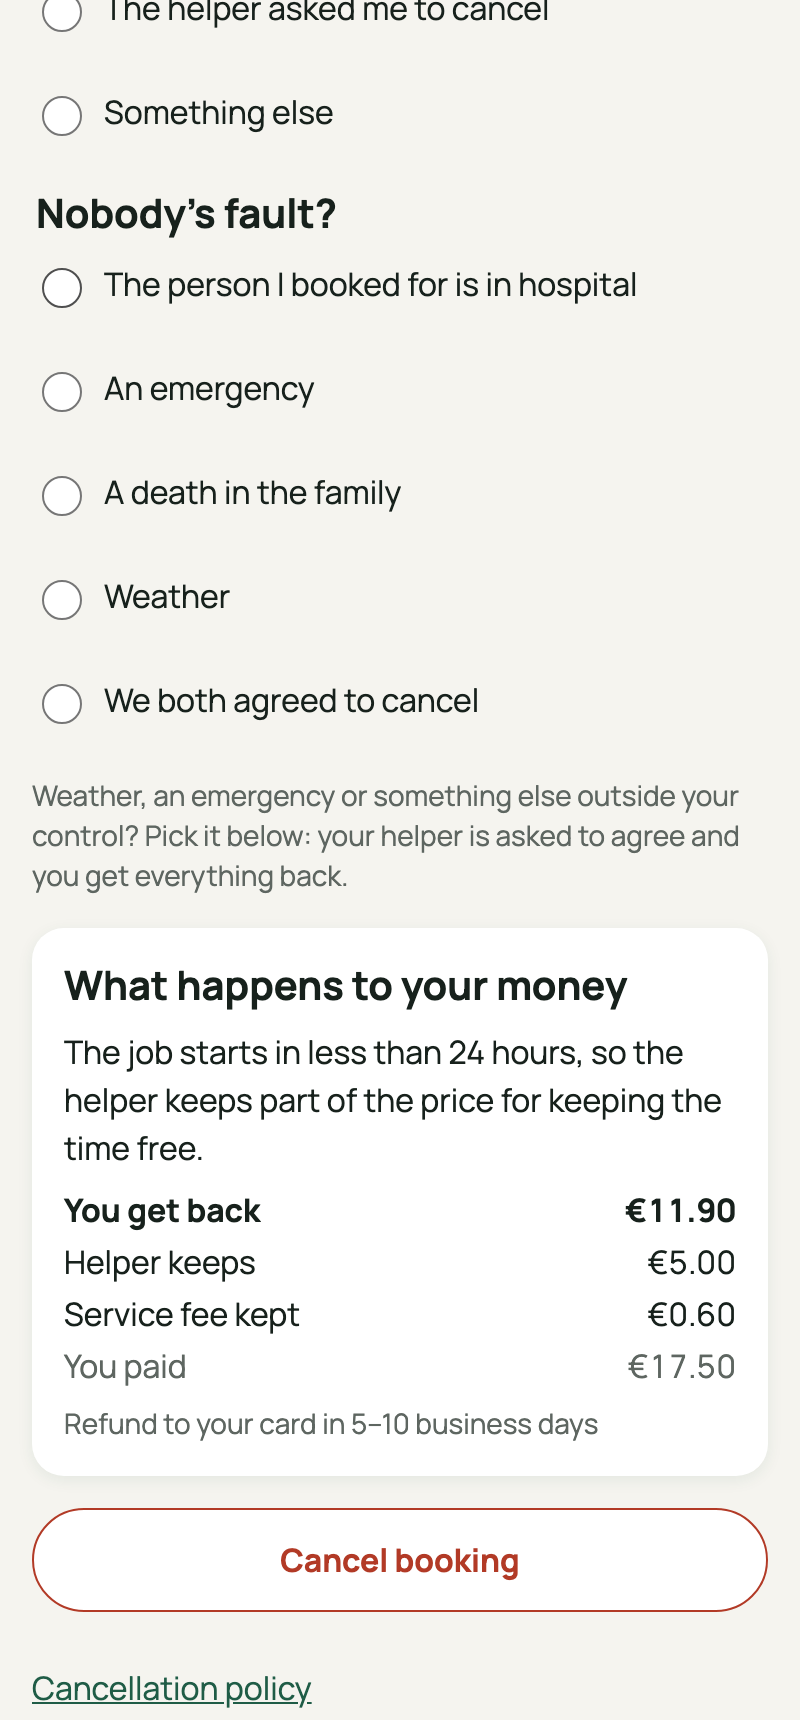
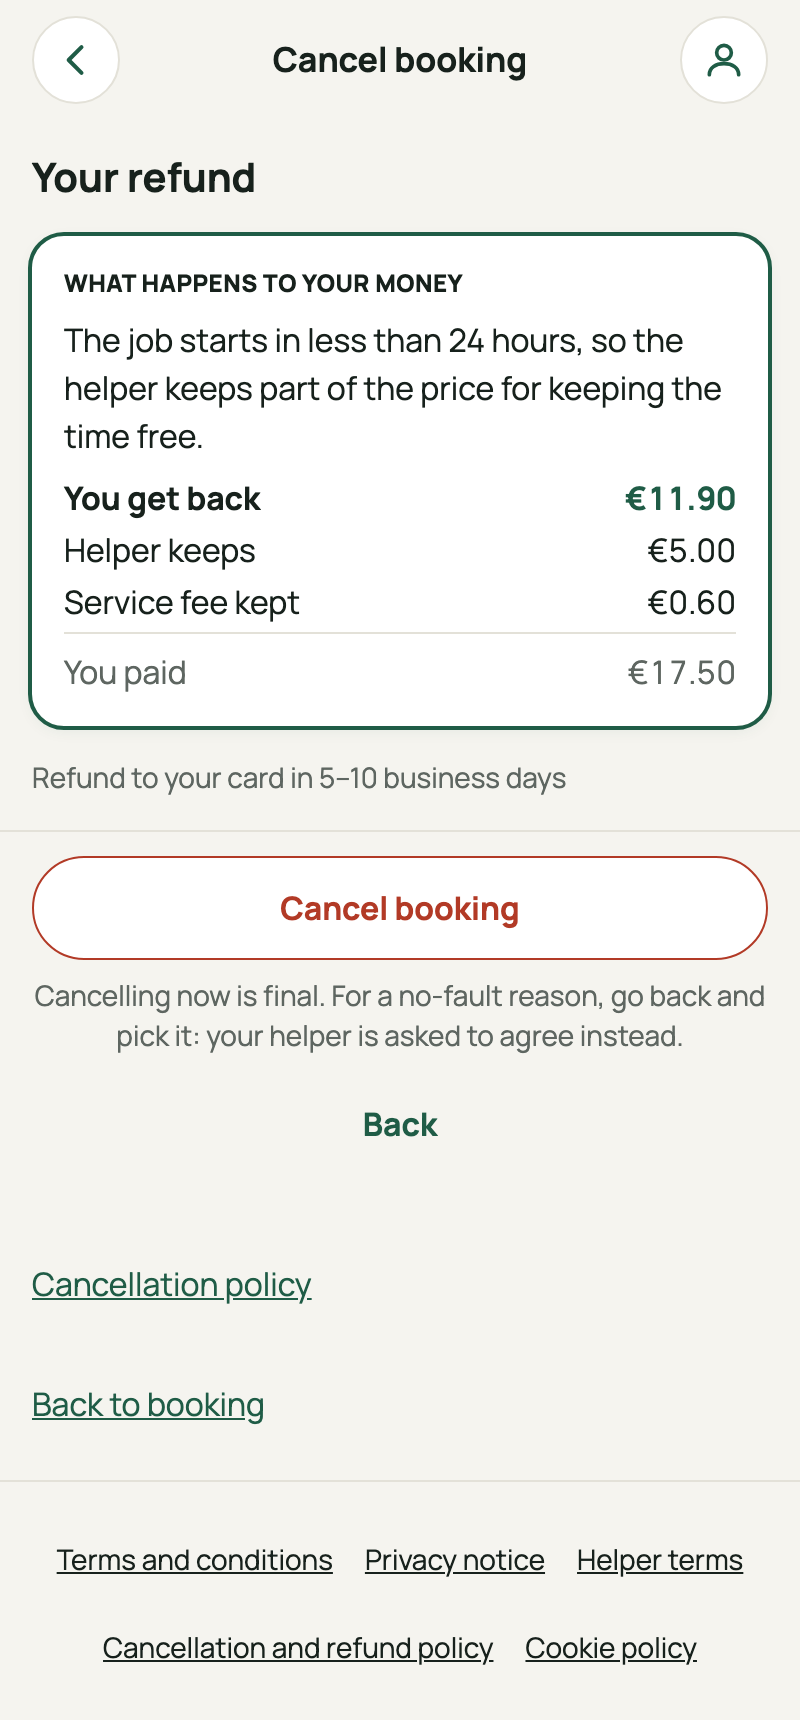
BEAV-211: pin the cancel buttons with a shared PinnedFoot; retake demo screenshots
Moves BEAV-210's PinnedFoot from checkout to components/ui with a testId
prop and its own CSS; checkout keeps data-testid=checkout-foot. The
cancel steps use it; the e2e proves the bar never covers the reasons,
the amounts or the withdrawal card at 200% text, 375px, hr/en/de/fr.
New docs/demo/web/11a-cancel-reason.png; 11 and 12 retaken from a
fresh seed_demo --reset.

diff --git a/apps/web/e2e/cancel.spec.ts b/apps/web/e2e/cancel.spec.ts
@@ -223,6 +223,9 @@ const tradeBooking = () =>
     withdrawalEndsAt: '2026-11-19T23:00:00Z',
   });
 
+/** Whether the bar actually sticks to the screen (PinnedFoot's data-pinned and the 40em rule). */
+const sticks = (foot: Locator) => foot.evaluate((el) => getComputedStyle(el).position === 'sticky');
+
 async function expectClear(page: Page, foot: Locator, target: Locator, label: string) {
   await target.scrollIntoViewIfNeeded();
   expect(overlaps((await target.boundingBox())!, (await foot.boundingBox())!), label).toBe(false);
@@ -247,7 +250,8 @@ for (const height of [812, 667]) {
       await page.goto(`/${locale}/bookings/booking-1/cancel`);
       const foot = page.getByTestId('cancel-foot');
       await expect(page.getByTestId('cancel-step-reason')).toBeVisible();
-      await expect(foot).toHaveAttribute('data-pinned', 'false');
+      // With this text size the screen is under 40em tall: the bar stays at the end of the step.
+      expect(await sticks(foot), locale).toBe(false);
       for (const key of ['NO_LONGER_NEEDED', 'OTHER', 'HOSPITALISATION', 'MUTUAL_AGREEMENT']) {
         const reason = page.getByTestId(`cancel-reason-${key}`);
         await reason.focus();
@@ -259,7 +263,7 @@ for (const height of [812, 667]) {
       await page.getByTestId('cancel-reason-OTHER').check();
       await page.getByTestId('cancel-see-refund').click();
       await expect(page.getByTestId('cancel-step-refund')).toBeVisible();
-      await expect(foot).toHaveAttribute('data-pinned', 'false');
+      expect(await sticks(foot), locale).toBe(false);
       await expectClear(page, foot, page.getByTestId('cancel-refund-rows'), `${locale} amounts`);
       expect(await noHorizontalScroll(page), locale).toBe(true);
     }
@@ -276,6 +280,7 @@ test('at the default text size the button bar is pinned and clear of the focused
   await page.goto('/en/bookings/booking-1/cancel');
   const foot = page.getByTestId('cancel-foot');
   await expect(foot).toHaveAttribute('data-pinned', 'true');
+  expect(await sticks(foot)).toBe(true);
   await expect(page.getByTestId('cancel-see-refund')).toBeInViewport();
   for (const key of ['NO_LONGER_NEEDED', 'MUTUAL_AGREEMENT']) {
     const reason = page.getByTestId(`cancel-reason-${key}`);

diff --git a/apps/web/src/components/ui/pinned-foot.tsx b/apps/web/src/components/ui/pinned-foot.tsx
@@ -1,7 +1,7 @@
 'use client';
 
 import { useEffect, useRef, useState, type ReactNode } from 'react';
-import styles from './checkout.module.css';
+import styles from './pinned-foot.module.css';
 
 /**
  * The most of the screen the order bar may take while pinned. Above it (large text, German or
@@ -16,11 +16,21 @@ export function fitsPinned(barHeight: number, viewportHeight: number): boolean {
 }
 
 /**
- * The checkout's order bar (mockup 6a): pinned to the bottom of the screen only while it fits,
- * measured with the user's real text size and language. While pinned, the page's
- * `scroll-padding-bottom` is the bar's height, so a focused box scrolls clear of it.
+ * A step's button bar (checkout's order bar, mockup 6a; the cancel buttons, mockup 13): pinned
+ * to the bottom of the screen only while it fits, measured with the user's real text size and
+ * language. While pinned, the page's `scroll-padding-bottom` is the bar's height, so a focused
+ * box scrolls clear of it. It bleeds into the large side padding of the page's `main`.
  */
-export function PinnedFoot({ children }: { children: ReactNode }) {
+export function PinnedFoot({
+  children,
+  testId,
+  className,
+}: {
+  children: ReactNode;
+  testId: string;
+  /** Extra layout for this page, e.g. no bottom bleed when something follows the bar. */
+  className?: string;
+}) {
   const ref = useRef<HTMLDivElement>(null);
   const [pinned, setPinned] = useState(false);
 
@@ -46,7 +56,12 @@ export function PinnedFoot({ children }: { children: ReactNode }) {
   }, []);
 
   return (
-    <div ref={ref} className={styles.foot} data-pinned={pinned} data-testid="checkout-foot">
+    <div
+      ref={ref}
+      className={className ? `${styles.foot} ${className}` : styles.foot}
+      data-pinned={pinned}
+      data-testid={testId}
+    >
       {children}
     </div>
   );

diff --git a/apps/web/src/components/cancel/booking-cancel.tsx b/apps/web/src/components/cancel/booking-cancel.tsx
@@ -32,7 +32,7 @@ import { formatDate, formatMoney, type Locale } from '@taskbeavo/i18n';
 import { useTranslations } from 'next-intl';
 import { useEffect, useRef, useState, type ReactNode } from 'react';
 import { Link } from '../../i18n/navigation';
-import { Button, Card, Input } from '../ui';
+import { Button, Card, Input, PinnedFoot } from '../ui';
 import styles from './cancel.module.css';
 
 /**
@@ -344,7 +344,7 @@ export function PosterCancel({
           noFaultNote={t('noFault')}
         />
         {withdrawal}
-        <CancelFoot>
+        <PinnedFoot testId="cancel-foot" className={styles.foot}>
           <Button
             fullWidth
             disabled={reason === null}
@@ -353,7 +353,7 @@ export function PosterCancel({
           >
             {t('seeRefund')}
           </Button>
-        </CancelFoot>
+        </PinnedFoot>
       </div>
     );
   }
@@ -375,7 +375,7 @@ export function PosterCancel({
           <p className={`${styles.small} ${styles.muted}`}>{t('preview.toCard')}</p>
         </>
       )}
-      <CancelFoot>
+      <PinnedFoot testId="cancel-foot" className={styles.foot}>
         {reason.kind === 'noFault' ? (
           <NoFaultSend role="poster" busy={busy} explain={false} onSend={() => onNoFault(reason)} />
         ) : (
@@ -403,16 +403,7 @@ export function PosterCancel({
         >
           {t('stepBack')}
         </Button>
-      </CancelFoot>
-    </div>
-  );
-}
-
-/** The step's button bar (the mockups' `.foot`). */
-function CancelFoot({ children }: { children: ReactNode }) {
-  return (
-    <div className={styles.foot} data-pinned="false" data-testid="cancel-foot">
-      {children}
+      </PinnedFoot>
     </div>
   );
 }

diff --git a/apps/web/src/components/checkout/booking-checkout.tsx b/apps/web/src/components/checkout/booking-checkout.tsx
@@ -23,10 +23,9 @@ import { colors, fontFamily } from '@taskbeavo/ui-tokens';
 import { useTranslations } from 'next-intl';
 import { useCallback, useEffect, useRef, useState } from 'react';
 import { useRouter } from '../../i18n/navigation';
-import { Button } from '../ui';
+import { Button, PinnedFoot } from '../ui';
 import { BookingOutcome, DeclineNote, SecureLine, Summary } from './checkout-parts';
 import styles from './checkout.module.css';
-import { PinnedFoot } from './pinned-foot';
 import { takeSecret } from './secret-handoff';
 
 // While confirming, the booking is also refetched in case the live event is missed.
@@ -319,7 +318,7 @@ function PayForm({
     >
       {decline ? <DeclineNote decline={decline} /> : null}
       <PaymentElement options={PAYMENT_ELEMENT_OPTIONS} />
-      <PinnedFoot>
+      <PinnedFoot testId="checkout-foot">
         <Button
           type="submit"
           fullWidth
@@ -410,7 +409,7 @@ export function DemoPayForm({
           {t('demo.failed')}
         </p>
       ) : null}
-      <PinnedFoot>
+      <PinnedFoot testId="checkout-foot">
         <Button type="submit" fullWidth disabled={busy} aria-busy={busy} data-testid="checkout-pay">
           {retry || decline
             ? t('declined.tryAgain')

diff --git a/apps/web/src/components/checkout/checkout.module.css b/apps/web/src/components/checkout/checkout.module.css
@@ -260,31 +260,6 @@
   flex: none;
 }
 
-/*
- * The order button bar (PinnedFoot). It is pinned to the bottom of the screen only when both
- * hold: PinnedFoot measured that it takes at most 35% of the screen (data-pinned), and the
- * screen is at least 40em tall. Media-query em follows the browser's text size, so large text
- * or a short, landscape screen leaves the bar at the end of the page, where it never covers the
- * consent boxes or the helper's details (review R1-1). While pinned, PinnedFoot sets the page's
- * scroll-padding-bottom to the bar's height, so a focused box scrolls clear of it.
- */
-.foot {
-  display: flex;
-  flex-direction: column;
-  gap: var(--tb-space-sm);
-  margin: 0 calc(-1 * var(--tb-space-lg)) calc(-1 * var(--tb-space-lg));
-  padding: var(--tb-space-md) var(--tb-space-lg) var(--tb-space-lg);
-  border-top: var(--tb-border-thin) solid var(--tb-color-line);
-  background: var(--tb-color-off-white);
-}
-
-@media (min-height: 40em) {
-  .foot[data-pinned='true'] {
-    position: sticky;
-    bottom: 0;
-  }
-}
-
 /* Mockup 6g: the demo card in a dashed orange frame. */
 .demoBox {
   display: flex;

diff --git a/apps/web/src/components/checkout/checkout-parts.tsx b/apps/web/src/components/checkout/checkout-parts.tsx
@@ -13,9 +13,8 @@ import { formatMoney, type Locale } from '@taskbeavo/i18n';
 import { useTranslations } from 'next-intl';
 import { useState, type ReactNode } from 'react';
 import { TraderIdentity, type TraderFields } from '../offers/trader-identity';
-import { Avatar, Badge, Button, Card, LockIcon, Sheet } from '../ui';
+import { Avatar, Badge, Button, Card, LockIcon, PinnedFoot, Sheet } from '../ui';
 import styles from './checkout.module.css';
-import { PinnedFoot } from './pinned-foot';
 
 export type Policy = NonNullable<CheckoutPolicyQuery['currentLegalDocument']>;
 
@@ -217,7 +216,7 @@ export function OfferCheckoutForm(props: OfferCheckoutFormProps) {
       ) : null}
       {/* Pinned to the bottom of the screen while it fits (mockup 6a): the fee notice, the amount
           due and the one order button stay together, so nothing comes between them. */}
-      <PinnedFoot>
+      <PinnedFoot testId="checkout-foot">
         <FeeNotice {...props} />
         {/* The one order button of the flow (user decision after the fee-consent opinions):
             the statutory wording, and in hr, de and fr no amount on it. */}

diff --git a/apps/web/src/components/ui/pinned-foot.module.css b/apps/web/src/components/ui/pinned-foot.module.css
@@ -1,0 +1,25 @@
+/*
+ * A step's button bar (the mockups' `.foot`): checkout's order bar and the cancel buttons. It is
+ * pinned to the bottom of the screen only when both hold: PinnedFoot measured that it takes at
+ * most 35% of the screen (data-pinned), and the screen is at least 40em tall. Media-query em
+ * follows the browser's text size, so large text or a short, landscape screen leaves the bar at
+ * the end of the page, where it never covers the consent boxes, the reasons or the amounts
+ * (BEAV-210 review R1-1). While pinned, PinnedFoot sets the page's scroll-padding-bottom to the
+ * bar's height, so a focused box scrolls clear of it.
+ */
+.foot {
+  display: flex;
+  flex-direction: column;
+  gap: var(--tb-space-sm);
+  margin: 0 calc(-1 * var(--tb-space-lg)) calc(-1 * var(--tb-space-lg));
+  padding: var(--tb-space-md) var(--tb-space-lg) var(--tb-space-lg);
+  border-top: var(--tb-border-thin) solid var(--tb-color-line);
+  background: var(--tb-color-off-white);
+}
+
+@media (min-height: 40em) {
+  .foot[data-pinned='true'] {
+    position: sticky;
+    bottom: 0;
+  }
+}

diff --git a/apps/web/src/components/cancel/cancel.module.css b/apps/web/src/components/cancel/cancel.module.css
@@ -78,7 +78,7 @@
 .rows {
   display: grid;
   grid-template-columns: 1fr auto;
-  gap: var(--tb-space-xs) var(--tb-space-md);
+  gap: var(--tb-space-xs) 0;
   margin: 0;
 }
 
@@ -89,6 +89,7 @@
 }
 
 .rows dd {
+  padding-left: var(--tb-space-md);
   text-align: right;
   font-variant-numeric: tabular-nums;
 }
@@ -176,13 +177,7 @@
   text-align: center;
 }
 
-/* The step's button bar (the mockups' `.foot`), at the end of the step. */
-.foot {
-  display: flex;
-  flex-direction: column;
-  gap: var(--tb-space-sm);
-  margin: 0 calc(-1 * var(--tb-space-lg)) calc(-1 * var(--tb-space-lg));
-  padding: var(--tb-space-md) var(--tb-space-lg) var(--tb-space-lg);
-  border-top: var(--tb-border-thin) solid var(--tb-color-line);
-  background: var(--tb-color-off-white);
+/* The step's button bar (PinnedFoot): the policy and back links follow it, so no bottom bleed. */
+.step > .foot {
+  margin-bottom: 0;
 }

diff --git a/apps/web/src/components/ui/index.ts b/apps/web/src/components/ui/index.ts
@@ -5,3 +5,4 @@ export { Input, type InputProps } from './input';
 export { Sheet, type SheetProps } from './sheet';
 export { Avatar } from './avatar';
 export { CalendarIcon, InfoIcon, LockIcon, PersonIcon } from './icons';
+export { PinnedFoot, fitsPinned, MAX_PINNED_SHARE } from './pinned-foot';

diff --git a/apps/web/src/components/ui/ui.test.tsx b/apps/web/src/components/ui/ui.test.tsx
@@ -92,6 +92,7 @@ describe('component styles', () => {
       'button.module.css',
       'card.module.css',
       'input.module.css',
+      'pinned-foot.module.css',
       'sheet.module.css',
     ]);
   });

diff --git a/docs/demo/README.md b/docs/demo/README.md
@@ -135,9 +135,9 @@ The **Request payment** and **Release payment** buttons arrive with BEAV-116 to 
 
 ### 7. Cancel
 
-Open "Cancel or withdraw" on a held booking and pick a reason: the page shows what happens to the money before you confirm. The seeded **late-cancel** booking (Klaus) starts under 24 hours away, so the helper keeps 25% of the price (€5 minimum) and TaskBeavo 12% of that. The **funds-held** booking (Claire) is 3 days away: a full refund, and since its helper is a registered business, the 14-day withdrawal right as well. The **cancelled** booking was cancelled by the seed and refunded through the stand-in's charge.refunded event.
+Open "Cancel or withdraw" on a held booking. Cancelling takes two steps: pick a reason, then "See refund" shows what happens to the money, with the final button and Back. A no-fault reason (weather, hospital, an emergency) asks the helper to agree on that second step instead, and a registered business's withdrawal button stays on the reason step. The seeded **late-cancel** booking (Klaus) starts under 24 hours away, so the helper keeps 25% of the price (€5 minimum) and TaskBeavo 12% of that. The **funds-held** booking (Claire) is 3 days away: a full refund, and since its helper is a registered business, the 14-day withdrawal right as well. The **cancelled** booking was cancelled by the seed and refunded through the stand-in's charge.refunded event.
 
-<img src="web/11-late-cancel-preview.png" width="260" alt="Late cancel: the helper keeps €5"> <img src="web/12-free-cancel-preview.png" width="260" alt="Free cancel: a full refund">
+<img src="web/11a-cancel-reason.png" width="260" alt="Cancel, step 1: why are you cancelling?"> <img src="web/11-late-cancel-preview.png" width="260" alt="Step 2, late cancel: the helper keeps €5"> <img src="web/12-free-cancel-preview.png" width="260" alt="Step 2, free cancel: a full refund">
 
 The same late cancel on the iOS app, signed in as Klaus: the reasons, then what happens to the money before he confirms.
 
